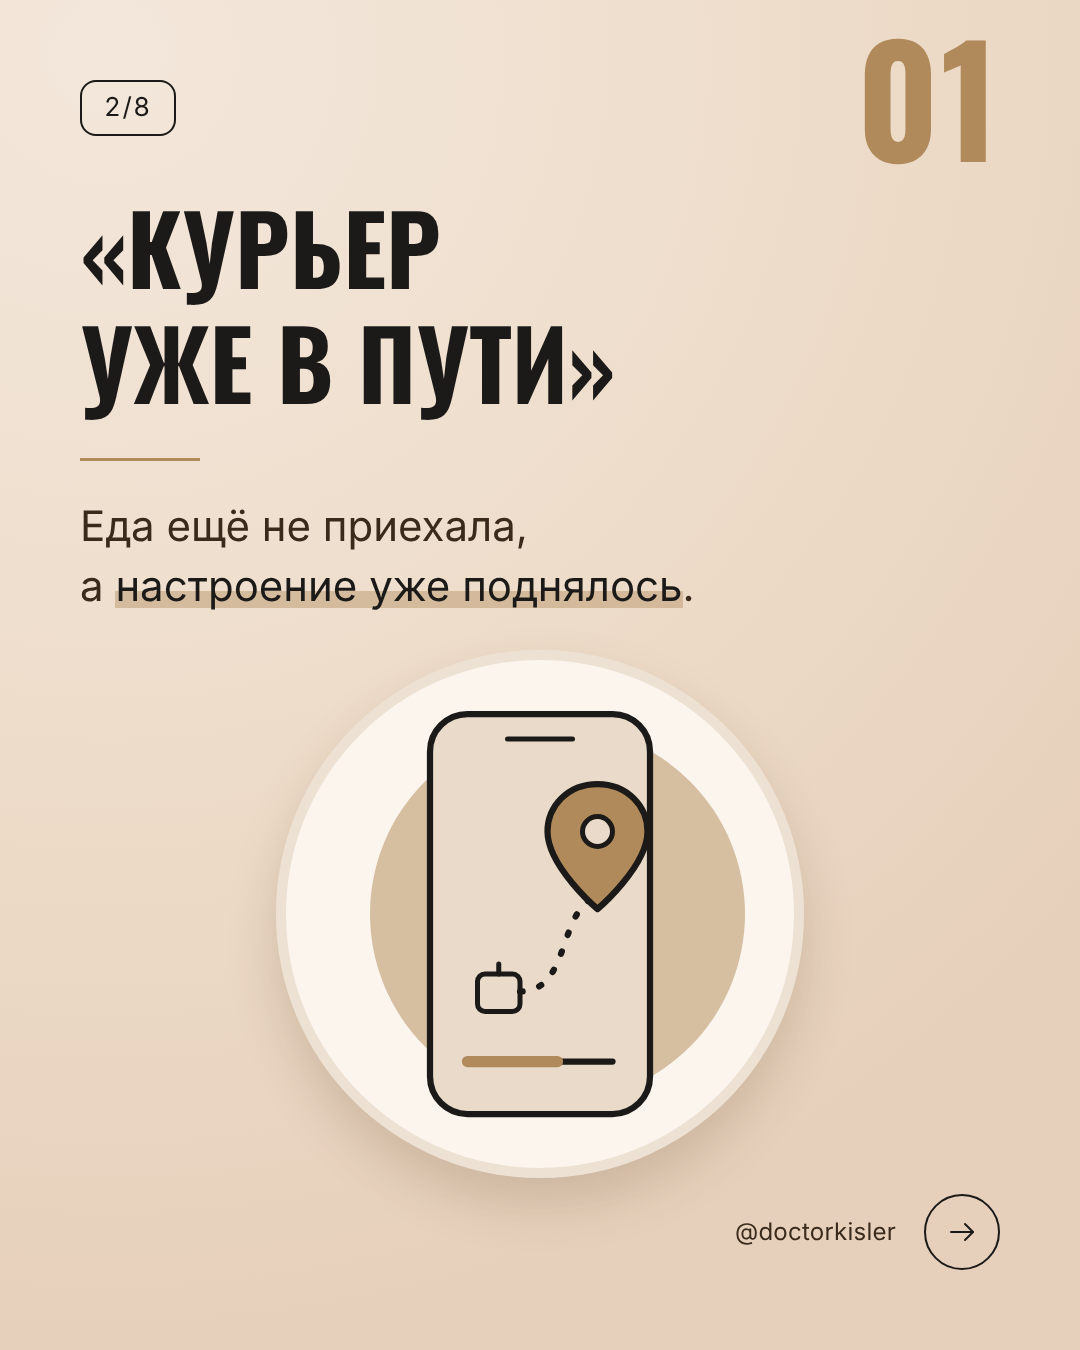
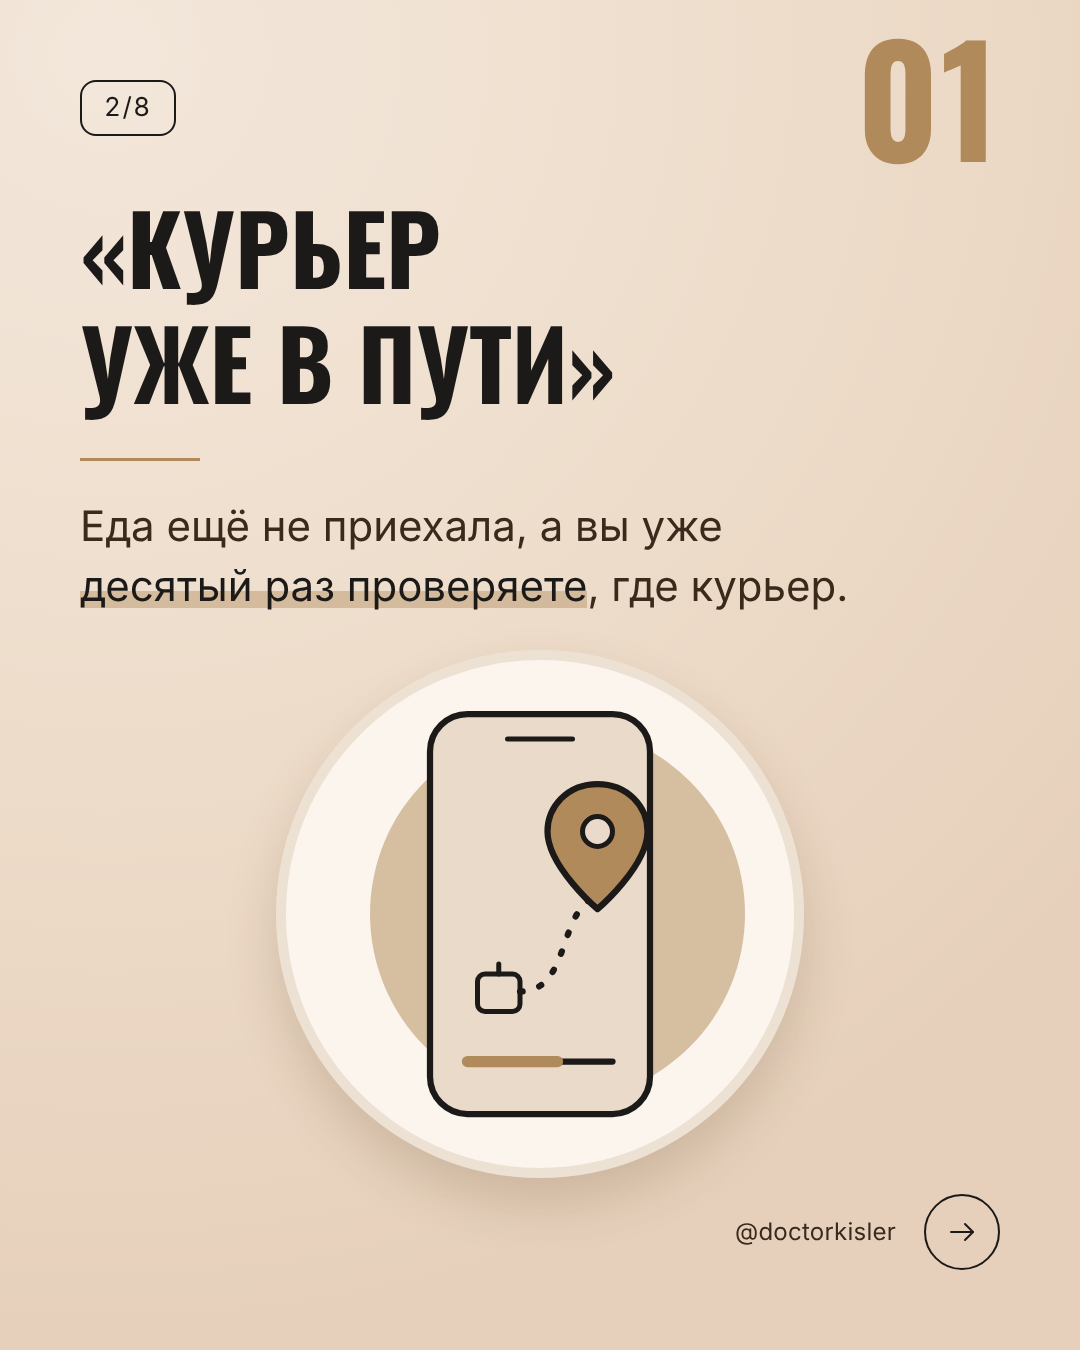
Карусель про дофамин: точнее про «хочу» вместо удовольствия (слайды 2, 7 и подпись)
Claude-Session: https://claude.ai/code/session_019BtadytbTpLJWiPD1hnvab

Changed region(s): [[0.0611, 0.3733, 0.7639, 0.4667]]

diff --git a/carousels/2026-10-22_dofamin_chast_2/source/slides.js b/carousels/2026-10-22_dofamin_chast_2/source/slides.js
@@ -8,12 +8,12 @@ module.exports = [
     subtitle: 'О дофамине',
     note: 'Сохраните, чтобы замечать это в себе',
   },
-  { type: 'sign', ill: 'courierTracking', title: '1. «Курьер уже в пути»', text: 'Еда ещё не приехала, а настроение уже поднялось.', big: true, hl: 'настроение уже поднялось' },
+  { type: 'sign', ill: 'courierTracking', title: '1. «Курьер уже в пути»', text: 'Еда ещё не приехала, а вы уже десятый раз проверяете, где курьер.', big: true, hl: 'десятый раз проверяете' },
   { type: 'sign', ill: 'typingDots', title: '2. Три точки в чате', text: 'Ждать ответа волнительнее, чем читать само сообщение.', big: true, dark: true, hl: 'волнительнее' },
   { type: 'sign', ill: 'bottleIce', title: '3. Щелчок крышки', text: 'Звук открывающейся бутылки и звон льда в стакане радуют раньше первого глотка.', big: true, hl: 'раньше первого глотка' },
   { type: 'sign', ill: 'betLoading', title: '4. Ставка загружается', text: 'Самый яркий момент — пока грузится экран, а не когда матч закончился.', big: true, dark: true, hl: 'пока грузится экран' },
   { type: 'sign', ill: 'notificationBadge', title: '5. Красная точка на иконке', text: 'Рука тянется к телефону раньше, чем вы решили посмотреть.', big: true, hl: 'раньше, чем вы решили' },
-  { type: 'sign', ill: 'cravingGrows', title: '6. Тяга крепнет', text: 'При зависимости удовольствие от выпивки или игры со временем тускнеет, а тяга при виде привычных сигналов только растёт.', big: true, dark: true, illSize: 480, hl: 'тяга' },
+  { type: 'sign', ill: 'cravingGrows', title: '6. Тяга крепнет', text: 'При зависимости тяга при виде привычных сигналов со временем растёт, а удовольствие от выпивки или игры — нет.', big: true, dark: true, illSize: 480, hl: 'тяга' },
   {
     type: 'final',
     title: 'Дело не в силе\u00A0воли',

diff --git a/carousels/2026-10-22_dofamin_chast_2/podpis.md b/carousels/2026-10-22_dofamin_chast_2/podpis.md
@@ -3,11 +3,11 @@
 Публикация: четверг, 22 октября, 19:00 по Москве. Задача поста: охват, без продающего призыва.
 
 ```text
-Дофамин часто называют гормоном удовольствия, но точнее сказать, что он отвечает за ожидание. За то самое «сейчас будет».
+Ждать курьера мучительно, а оторваться от карты, где ползёт его машинка, невозможно. Это дофамин. Его называют гормоном удовольствия, но он отвечает за «хочу» и «сейчас будет».
 
 В карусели шесть ситуаций, где мозг радуется заранее.
 
-В обычной жизни это просто забавно. Но при зависимости этот механизм работает против человека: удовольствие от выпивки или игры со временем тускнеет, а тяга при виде привычных сигналов только растёт. Звук уведомления, знакомое приложение, вечер пятницы — и мозг уже предвкушает, хотя вы ещё ничего не решили.
+В обычной жизни это просто забавно. Но при зависимости этот механизм работает против человека: тяга при виде привычных сигналов со временем растёт, а удовольствие от выпивки или игры — нет. Звук уведомления, знакомое приложение, вечер пятницы — и мозг уже предвкушает, хотя вы ещё ничего не решили.
 
 Поэтому спорить с собой в такой момент тяжело, и дело не в слабой воле. Надёжнее заранее убрать сигналы: удалить приложение, отключить уведомления, изменить привычный сценарий вечера.
 
